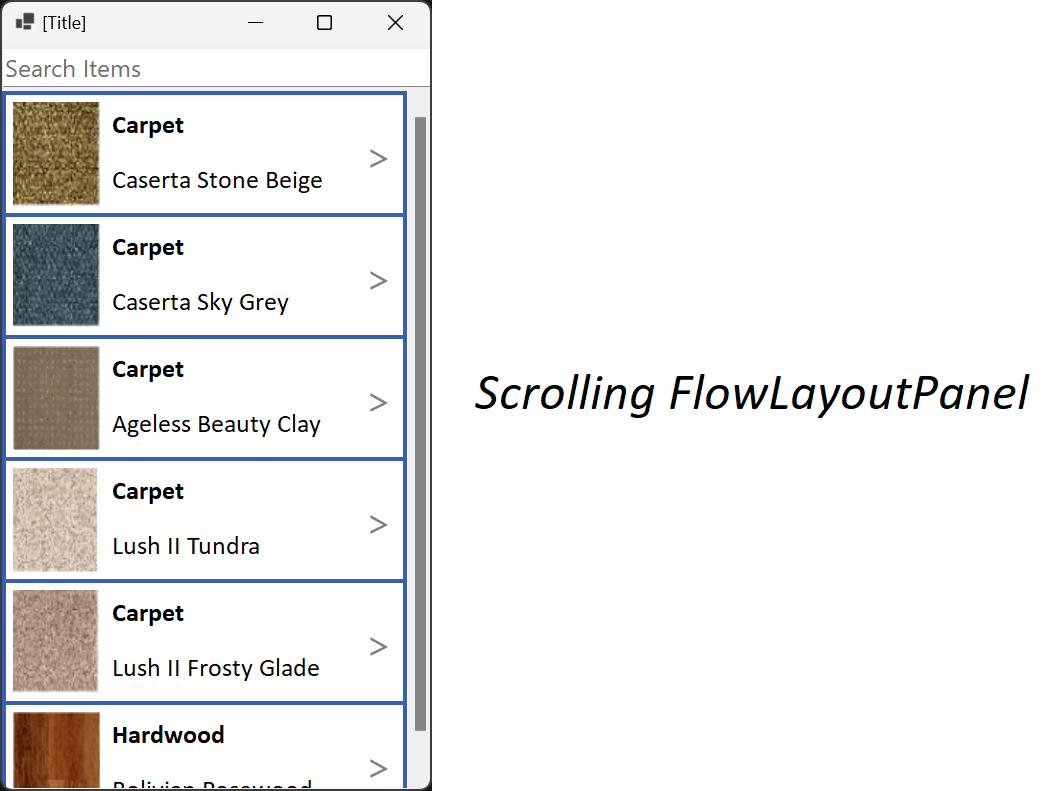
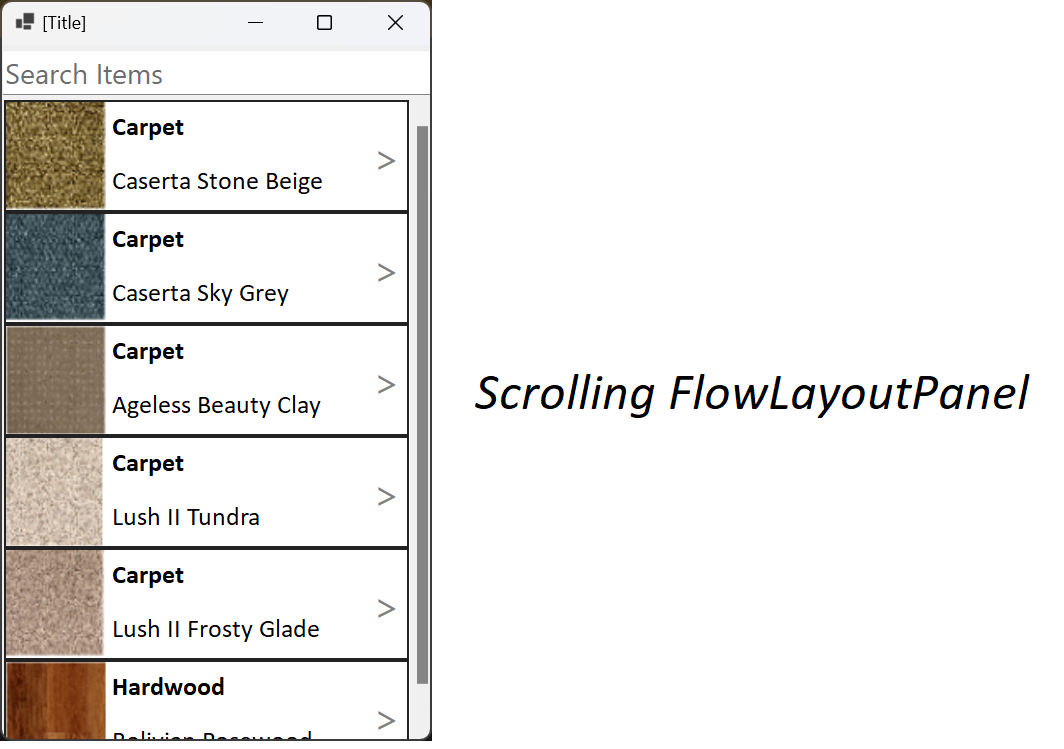
nbrp

Changed region(s): [[0.0, 0.0614, 0.4032, 1.0], [0.4342, 0.4606, 0.9925, 0.5527], [0.0, 0.0, 0.031, 0.0307]]

diff --git a/flowpanel-of-usercontrol/ProductCard.Designer.cs b/flowpanel-of-usercontrol/ProductCard.Designer.cs
@@ -45,7 +45,7 @@
             this.pictureBox.Location = new System.Drawing.Point(7, 7);
             this.pictureBox.Name = "pictureBox";
             this.tableLayoutPanel1.SetRowSpan(this.pictureBox, 2);
-            this.pictureBox.Size = new System.Drawing.Size(102, 104);
+            this.pictureBox.Size = new System.Drawing.Size(100, 106);
             this.pictureBox.SizeMode = System.Windows.Forms.PictureBoxSizeMode.StretchImage;
             this.pictureBox.TabIndex = 1;
             this.pictureBox.TabStop = false;
@@ -57,9 +57,10 @@
             | System.Windows.Forms.AnchorStyles.Right)));
             this.labelCategory.AutoSize = true;
             this.labelCategory.Font = new System.Drawing.Font("Calibri", 13F, System.Drawing.FontStyle.Bold, System.Drawing.GraphicsUnit.Point);
-            this.labelCategory.Location = new System.Drawing.Point(115, 4);
+            this.labelCategory.Location = new System.Drawing.Point(101, 1);
+            this.labelCategory.Margin = new System.Windows.Forms.Padding(0);
             this.labelCategory.Name = "labelCategory";
-            this.labelCategory.Size = new System.Drawing.Size(295, 51);
+            this.labelCategory.Size = new System.Drawing.Size(316, 47);
             this.labelCategory.TabIndex = 2;
             this.labelCategory.Text = "Category";
             this.labelCategory.TextAlign = System.Drawing.ContentAlignment.MiddleLeft;
@@ -71,9 +72,10 @@
             | System.Windows.Forms.AnchorStyles.Right)));
             this.labelDescription.AutoSize = true;
             this.labelDescription.Font = new System.Drawing.Font("Calibri", 13F, System.Drawing.FontStyle.Regular, System.Drawing.GraphicsUnit.Point);
-            this.labelDescription.Location = new System.Drawing.Point(115, 55);
+            this.labelDescription.Location = new System.Drawing.Point(101, 48);
+            this.labelDescription.Margin = new System.Windows.Forms.Padding(0);
             this.labelDescription.Name = "labelDescription";
-            this.labelDescription.Size = new System.Drawing.Size(295, 59);
+            this.labelDescription.Size = new System.Drawing.Size(316, 59);
             this.labelDescription.TabIndex = 2;
             this.labelDescription.Text = "ProductName";
             this.labelDescription.TextAlign = System.Drawing.ContentAlignment.MiddleLeft;
@@ -94,7 +96,7 @@
             this.tableLayoutPanel1.Location = new System.Drawing.Point(0, 0);
             this.tableLayoutPanel1.Margin = new System.Windows.Forms.Padding(4);
             this.tableLayoutPanel1.Name = "tableLayoutPanel1";
-            this.tableLayoutPanel1.Padding = new System.Windows.Forms.Padding(4);
+            this.tableLayoutPanel1.Padding = new System.Windows.Forms.Padding(1);
             this.tableLayoutPanel1.RowCount = 2;
             this.tableLayoutPanel1.RowStyles.Add(new System.Windows.Forms.RowStyle(System.Windows.Forms.SizeType.Percent, 50F));
             this.tableLayoutPanel1.RowStyles.Add(new System.Windows.Forms.RowStyle(System.Windows.Forms.SizeType.Absolute, 59F));
@@ -109,10 +111,11 @@
             this.labelExp.FlatStyle = System.Windows.Forms.FlatStyle.Flat;
             this.labelExp.Font = new System.Drawing.Font("Segoe UI", 20F, System.Drawing.FontStyle.Regular, System.Drawing.GraphicsUnit.Point);
             this.labelExp.ForeColor = System.Drawing.Color.Gray;
-            this.labelExp.Location = new System.Drawing.Point(416, 4);
+            this.labelExp.Location = new System.Drawing.Point(417, 1);
+            this.labelExp.Margin = new System.Windows.Forms.Padding(0);
             this.labelExp.Name = "labelExp";
             this.tableLayoutPanel1.SetRowSpan(this.labelExp, 2);
-            this.labelExp.Size = new System.Drawing.Size(30, 110);
+            this.labelExp.Size = new System.Drawing.Size(35, 106);
             this.labelExp.TabIndex = 3;
             this.labelExp.Text = ">";
             this.labelExp.TextAlign = System.Drawing.ContentAlignment.MiddleCenter;
@@ -121,7 +124,7 @@
             // 
             this.AutoScaleDimensions = new System.Drawing.SizeF(10F, 25F);
             this.AutoScaleMode = System.Windows.Forms.AutoScaleMode.Font;
-            this.BackColor = System.Drawing.Color.White;
+            this.BackColor = System.Drawing.Color.Green;
             this.Controls.Add(this.tableLayoutPanel1);
             this.Name = "ProductCard";
             this.Size = new System.Drawing.Size(453, 118);

diff --git a/flowpanel-of-usercontrol/ProductCard.cs b/flowpanel-of-usercontrol/ProductCard.cs
@@ -30,6 +30,7 @@ namespace flowpanel_of_usercontrol
                         "Images",
                         $"{Description}.png"
                     );
+                    // Set the "Copy to Output Directory" property of all image files.
                     if (File.Exists(imagePath))
                     {
                         pictureBox.Image = Image.FromFile(imagePath);
@@ -52,6 +53,7 @@ namespace flowpanel_of_usercontrol
             };
         }
         int VSBW { get; } = SystemInformation.VerticalScrollBarWidth;
-        private int getWidth() => Parent.Width - 8 - VSBW;
+        private int getWidth() => 
+            Parent.Width - Margin.Left - Margin.Right - VSBW;
     }
 }

diff --git a/flowpanel-of-usercontrol/MainForm.cs b/flowpanel-of-usercontrol/MainForm.cs
@@ -53,7 +53,6 @@ namespace flowpanel_of_usercontrol
     {
         public CustomFlowLayoutTable()
         {
-            Padding = new Padding(0);
             AutoScroll = true;
             Products.ListChanged += (sender, e) =>
             {

diff --git a/README.md b/README.md
@@ -1,14 +1,15 @@
 For something light-duty, it's pretty easy to use a flow layout panel to show a bound table in a scrollable list. A quick proof-of-concept is shown below [[clone](https://github.com/IVSoftware/flowpanel-of-usercontrol.git)]. 
 
-*For production use or with huge tables there are at least three big companies producing sophisticated custom WinForms components of this nature that have free trial licenses. IMO one "might" want to weight the benefits vs the cost.*
+*For production use or with huge tables there are at least three major companies producing sophisticated custom WinForms components of this nature that have free trial licenses. IMO one "might" want to weight the benefits vs the cost.*
 
 [![screenshot][1]][1]
+
+
 
     class CustomFlowLayoutTable : FlowLayoutPanel
     {
         public CustomFlowLayoutTable()
         {
-            Padding = new Padding(0);
             AutoScroll = true;
             Products.ListChanged += (sender, e) =>
             {
@@ -29,10 +30,13 @@ For something light-duty, it's pretty easy to use a flow layout panel to show a 
 
     public partial class ProductCard : UserControl
     {
+        int _id = 0;
         public ProductCard()
         {
             InitializeComponent();
-            Margin = new Padding(4, 4, 4, 0);
+            Padding = new Padding(0);
+            Margin = new Padding(2);
+            Name = $"userControl{_id++}";  // No space, start with lowercase
         }
         public string Description
         {
@@ -47,6 +51,7 @@ For something light-duty, it's pretty easy to use a flow layout panel to show a 
                         "Images",
                         $"{Description}.png"
                     );
+                    // Set the "Copy to Output Directory" property of all image files.
                     if (File.Exists(imagePath))
                     {
                         pictureBox.Image = Image.FromFile(imagePath);
@@ -63,13 +68,17 @@ For something light-duty, it's pretty easy to use a flow layout panel to show a 
         {
             base.OnHandleCreated(e);
             Width = getWidth();
-            Parent.SizeChanged += (sender, e) =>
-            {
-                Width = getWidth();
-            };
+            // Respond to width changes of owner container.
+            Parent.SizeChanged += (sender, e) => Width = getWidth();
         }
         int VSBW { get; } = SystemInformation.VerticalScrollBarWidth;
-        private int getWidth() => Parent.Width - 8 - VSBW;
+        private int getWidth() => 
+            Parent.Width - 
+                Parent.Padding.Left - 
+                Parent.Padding.Right -
+                Margin.Left - 
+                Margin.Right - 
+                VSBW;
     }
 
 ***
@@ -79,44 +88,36 @@ For something light-duty, it's pretty easy to use a flow layout panel to show a 
     {
         public MainForm() => InitializeComponent();
 
-        int _count = 0;
         protected override void OnLoad(EventArgs e)
         {
             base.OnLoad(e);
-            var VSBW = SystemInformation.VerticalScrollBarWidth;
             flowLayoutPanel.Products.Add(new ProductCard
             {
-                Name = $"userControl{_count++}",  // No space, start with lowercase
                 Category = "Carpet",
                 Description = "Caserta Stone Beige",
             });
             flowLayoutPanel.Products.Add(new ProductCard
             {
-                Name = $"userControl{_count++}",  // No space, start with lowercase
                 Category = "Carpet",
                 Description = "Caserta Sky Grey",
             });
             flowLayoutPanel.Products.Add(new ProductCard
             {
-                Name = $"userControl{_count++}",  // No space, start with lowercase
                 Category = "Carpet",
                 Description = "Ageless Beauty Clay",
             });
             flowLayoutPanel.Products.Add(new ProductCard
             {
-                Name = $"userControl{_count++}",  // No space, start with lowercase
                 Category = "Carpet",
                 Description = "Lush II Tundra",
             });
             flowLayoutPanel.Products.Add(new ProductCard
             {
-                Name = $"userControl{_count++}",  // No space, start with lowercase
                 Category = "Carpet",
                 Description = "Lush II Frosty Glade",
             });
             flowLayoutPanel.Products.Add(new ProductCard
             {
-                Name = $"userControl{_count++}",  // No space, start with lowercase
                 Category = "Hardwood",
                 Description = "Bolivian Rosewood",
             });
@@ -124,4 +125,4 @@ For something light-duty, it's pretty easy to use a flow layout panel to show a 
     }
 
 
-  [1]: https://i.stack.imgur.com/PAeUJ.png
+  [1]: https://i.stack.imgur.com/rElri.png
